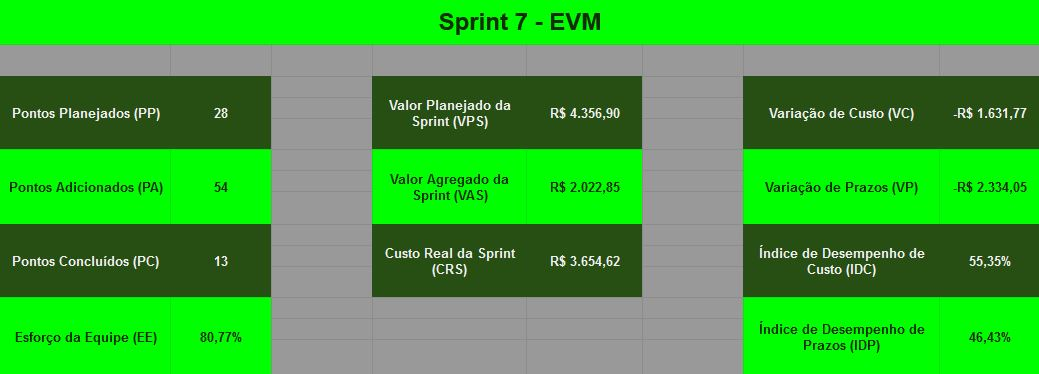
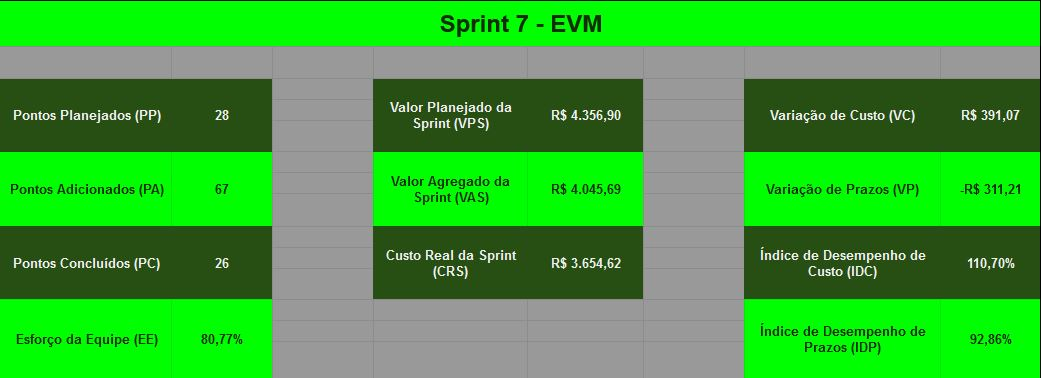
Requested Changes made

diff --git a/docs/sprints/sprint7/results.md b/docs/sprints/sprint7/results.md
@@ -44,10 +44,11 @@
 | [Pesquisa sobre refatoração no Backend](https://github.com/fga-eps-mds/2020.1-GaiaDex-wiki/issues/102) | 2 pontos | não feito |
 | [Iniciar doc Post-Mortem](https://github.com/fga-eps-mds/2020.1-GaiaDex-wiki/issues/103) | 3 pontos | feito |
 | [Evolução do Protótipo](https://github.com/fga-eps-mds/2020.1-GaiaDex-wiki/issues/104) | 2 pontos | feito |
+| [Automatização do mkdocs](https://github.com/fga-eps-mds/2020.1-GaiaDex-wiki/issues/108) | 13 pontos | feito |
 | [Readequar issues do FrontEnd para incluir a distinção entre as fases da entrega](https://github.com/fga-eps-mds/2020.1-GaiaDex-wiki/issues/105) | - pontos | não feito |
 | [Refatorar Roadmap do FrontEnd para considerar as diferentes etapas da entrega](https://github.com/fga-eps-mds/2020.1-GaiaDex-wiki/issues/106) | - pontos | não feito |
 
-Dos 82 pontos planejados, 13 foram entregues. Algumas issues não foram fechadas, pois estão incompletas e serão adicionadas como dívidas técnicas para a próxima sprint.
+Dos 95 pontos planejados, 26 foram entregues. Algumas issues não foram fechadas, pois estão incompletas e serão adicionadas como dívidas técnicas para a próxima sprint.
 
 ### 1.2 _Burndown_
 

diff --git a/docs/sprints/sprint7/planning.md b/docs/sprints/sprint7/planning.md
@@ -8,9 +8,9 @@
 
 **Pontos Planejados**: 28
 
-**Pontos Adicionados**: 54
+**Pontos Adicionados**: 67
 
-**Pontos Totais**: 82
+**Pontos Totais**: 95
 
 -------
 
@@ -103,6 +103,6 @@ Essas issues foram discutidas entre o grupo, mas por falha de organização não
 3. [Evolução do Protótipo](https://github.com/fga-eps-mds/2020.1-GaiaDex-wiki/issues/104) - 2 pontos
 4. [Readequar issues do FrontEnd para incluir a distinção entre as fases da entrega](https://github.com/fga-eps-mds/2020.1-GaiaDex-wiki/issues/105) - X pontos
 5. [Refatorar Roadmap do FrontEnd para considerar as diferentes etapas da entrega](https://github.com/fga-eps-mds/2020.1-GaiaDex-wiki/issues/106) - X pontos
-6. [Automatização do mkdocs](https://github.com/fga-eps-mds/2020.1-GaiaDex-wiki/issues/108) - X pontos
+6. [Automatização do mkdocs](https://github.com/fga-eps-mds/2020.1-GaiaDex-wiki/issues/108) - 13 pontos
 7. [Configuração do Codacy e Codeclimate](https://github.com/fga-eps-mds/2020.1-GaiaDex-wiki/issues/109) - X pontos
 8. [Gerar templates de sprints restantes](https://github.com/fga-eps-mds/2020.1-GaiaDex-wiki/issues/112) - X pontos
